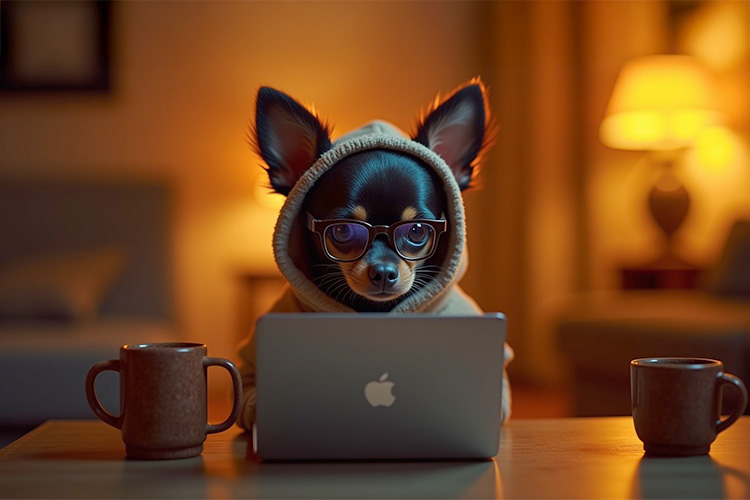
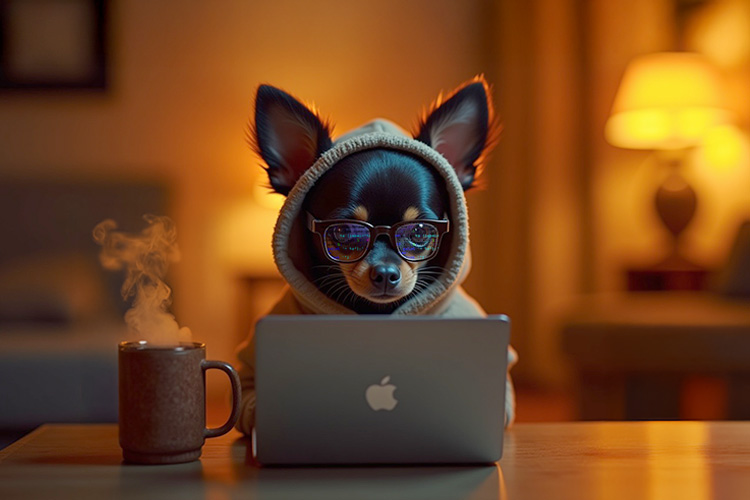
refactor(components): Extract hero section to separate component and update image

diff --git a/src/App.jsx b/src/App.jsx
@@ -1,5 +1,6 @@
 import { useState } from "react";
 import Navbar from "./components/Navbar";
+import HeroSection from "./components/HeroSection";
 
 function App() {
   const [count, setCount] = useState(0);
@@ -7,29 +8,7 @@ function App() {
   return (
     <>
       <Navbar />
-      <section id="hero-section" className="w-full py-10 md:py-20">
-        <div className="container flex flex-col gap-[40px] md:gap-[60px] md:flex-row">
-          <div id="motto" className="md:w-1/3 md:flex md:flex-col md:justify-center">
-            <h1 className="text-[40px] md:text-[56px] poppins-semibold text-center md:text-right pb-4">Stay Informed, Stay Inspired</h1>
-            <p className="text-center md:text-right">
-              Discover a World of Knowledge at Your Fingertips. Your Daily Dose of Inspiration and Information.
-            </p>
-          </div>
-          <div id="hero-image" className="h-[470px] md:h-[530px] overflow-hidden md:w-1/3">
-            <img src="/assets/images/thedogdev-hero-image.jpg" className="w-auto h-full object-cover rounded-2xl" alt="Hero image" />
-          </div>
-          <div id="author" className="md:w-1/3 md:flex md:flex-col md:justify-center">
-            <h2 className="text-xs text-[#75716B] font-medium pb-3">-Author</h2>
-            <h3 className="text-2xl font-semibold pb-4">Kittiphat</h3>
-            <p>
-              I am a pet enthusiast and freelance writer who specializes in animal behavior and care. With a deep love for cats, I enjoy
-              sharing insights on feline companionship and wellness.
-            </p>
-            <br />
-            <p>When i’m not writing, I spends time volunteering at my local animal shelter, helping cats find loving homes.</p>
-          </div>
-        </div>
-      </section>
+      <HeroSection />
     </>
   );
 }

diff --git a/src/components/HeroSection.jsx b/src/components/HeroSection.jsx
@@ -1,0 +1,29 @@
+function HeroSection() {
+  return (
+    <section id="hero-section" className="w-full py-10 md:py-20">
+      <div className="container flex flex-col gap-[40px] md:gap-[60px] md:flex-row">
+        <div id="motto" className="md:w-1/3 md:flex md:flex-col md:justify-center">
+          <h1 className="text-[40px] md:text-[56px] poppins-semibold text-center md:text-right pb-4">Stay Informed, Stay Inspired</h1>
+          <p className="text-center md:text-right">
+            Discover a World of Knowledge at Your Fingertips. Your Daily Dose of Inspiration and Information.
+          </p>
+        </div>
+        <div id="hero-image" className="h-[470px] md:h-[530px] overflow-hidden md:w-1/3">
+          <img src="/assets/images/thedogdev-hero-image.jpg" className="w-auto h-full object-cover rounded-2xl" alt="Hero image" />
+        </div>
+        <div id="author" className="md:w-1/3 md:flex md:flex-col md:justify-center">
+          <h2 className="text-xs text-[#75716B] font-medium pb-3">-Author</h2>
+          <h3 className="text-2xl font-semibold pb-4">Kittiphat</h3>
+          <p>
+            I am a pet enthusiast and freelance writer who specializes in animal behavior and care. With a deep love for cats, I enjoy
+            sharing insights on feline companionship and wellness.
+          </p>
+          <br />
+          <p>When i’m not writing, I spends time volunteering at my local animal shelter, helping cats find loving homes.</p>
+        </div>
+      </div>
+    </section>
+  );
+}
+
+export default HeroSection;
